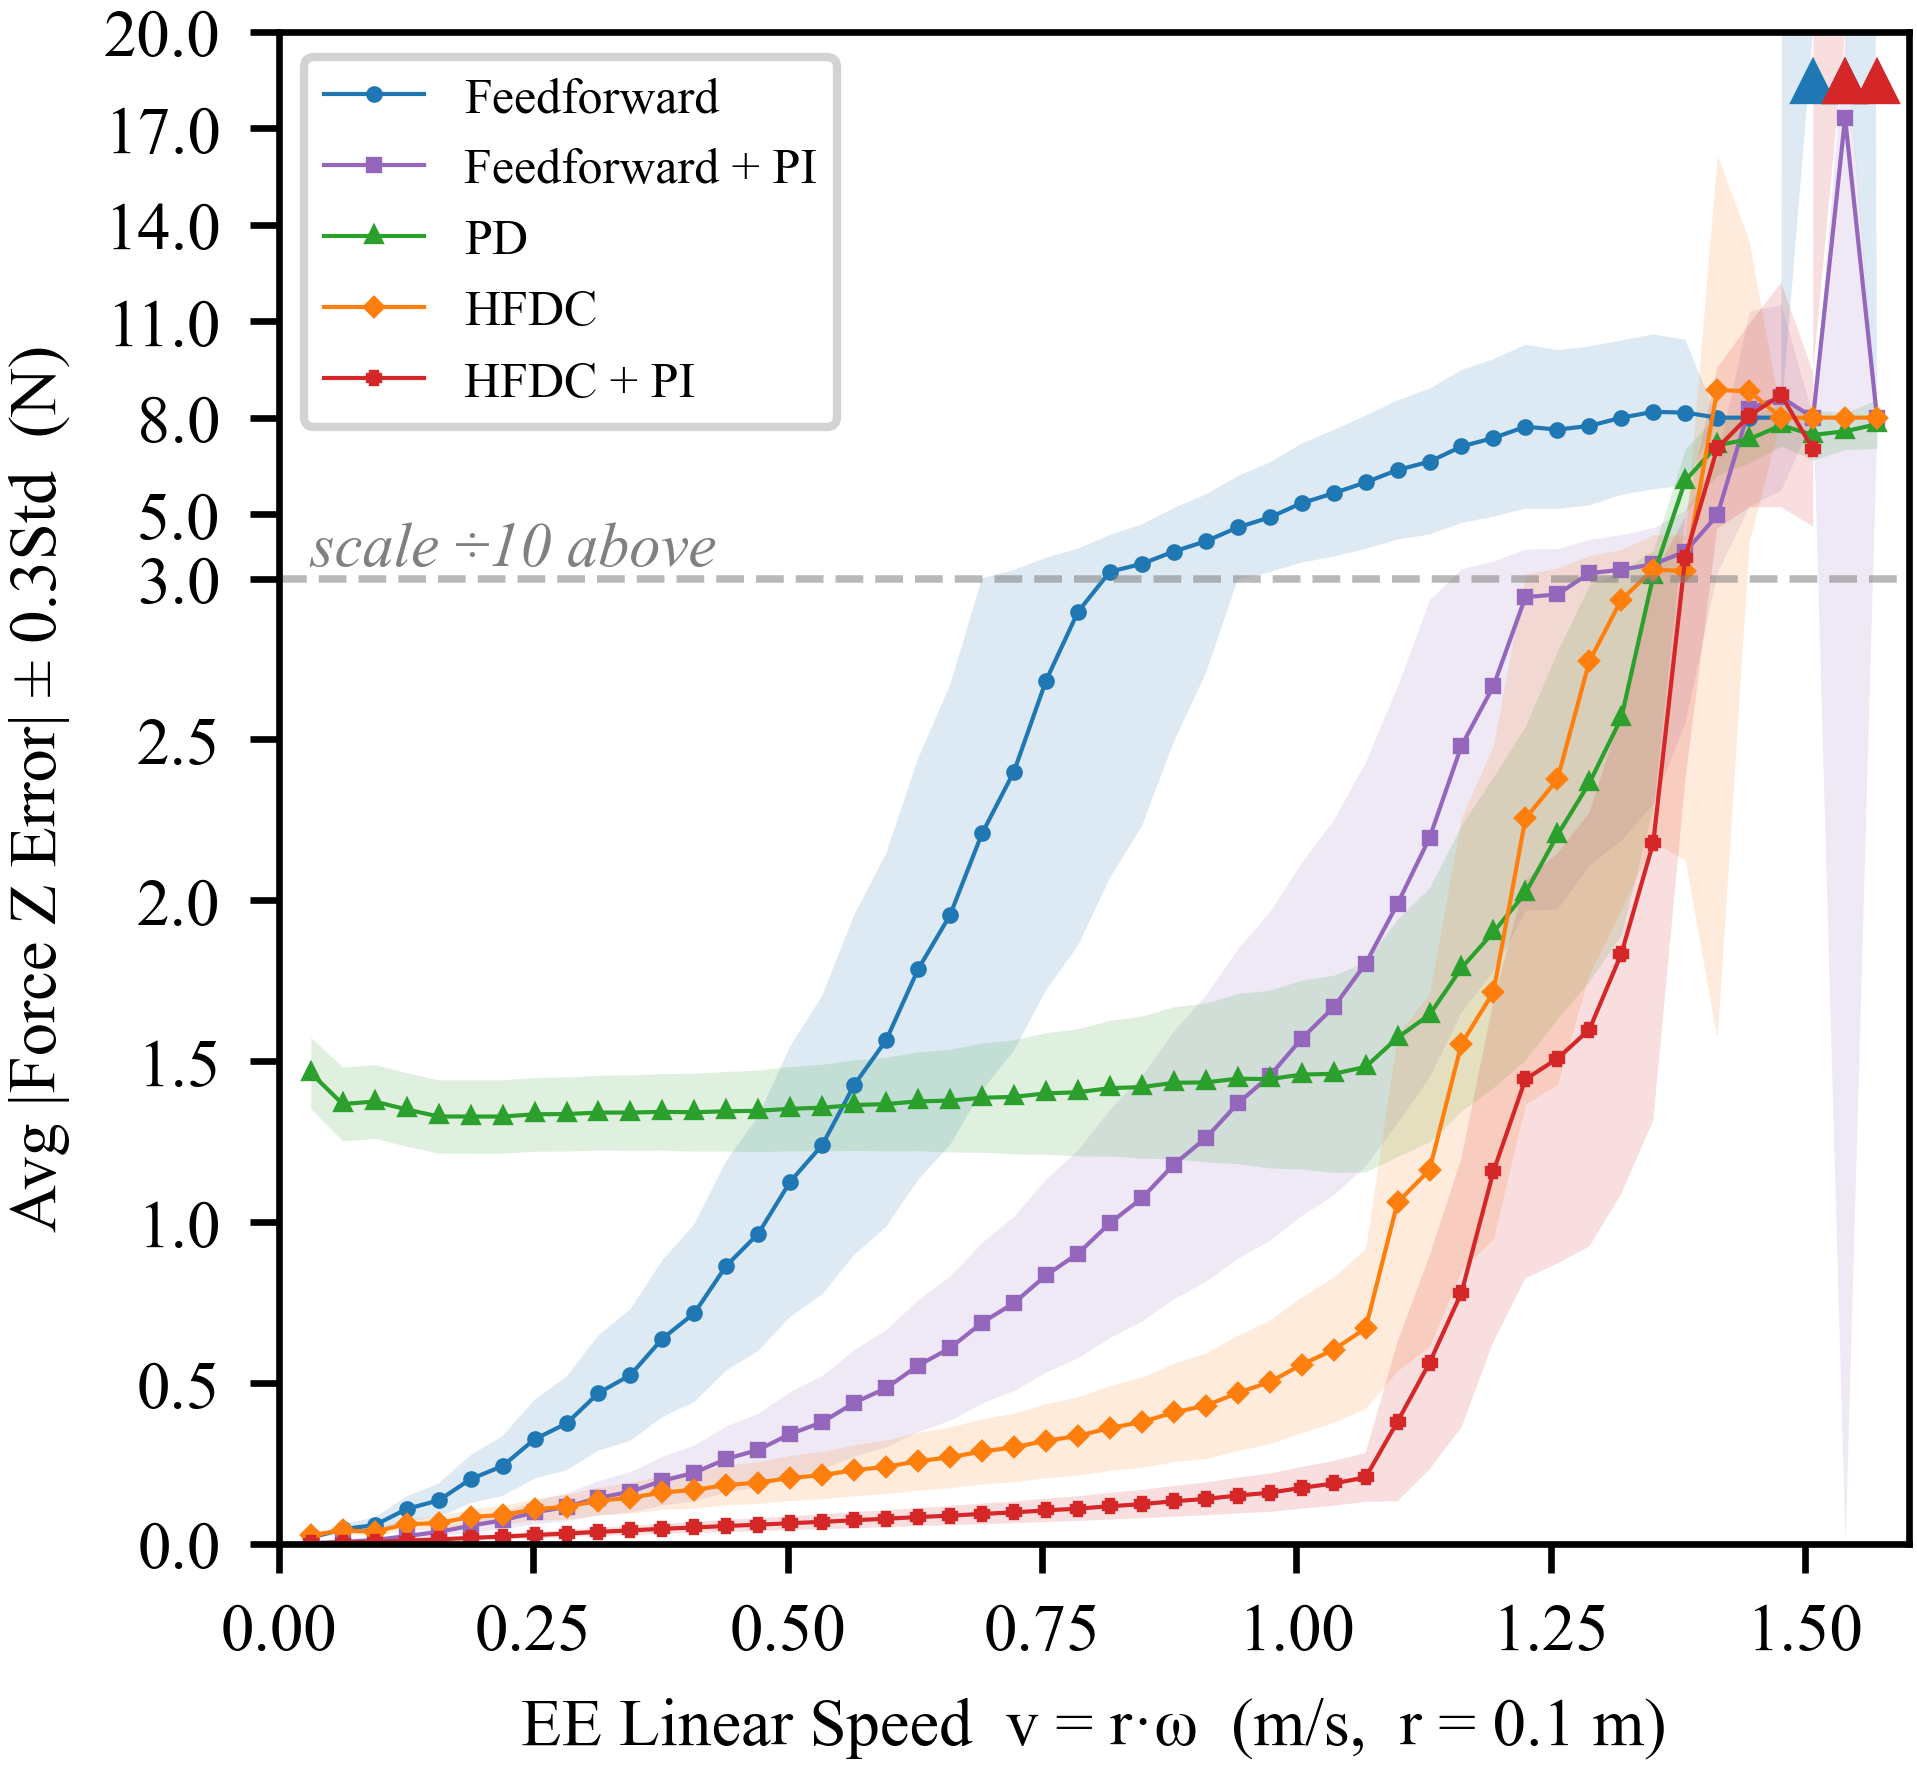
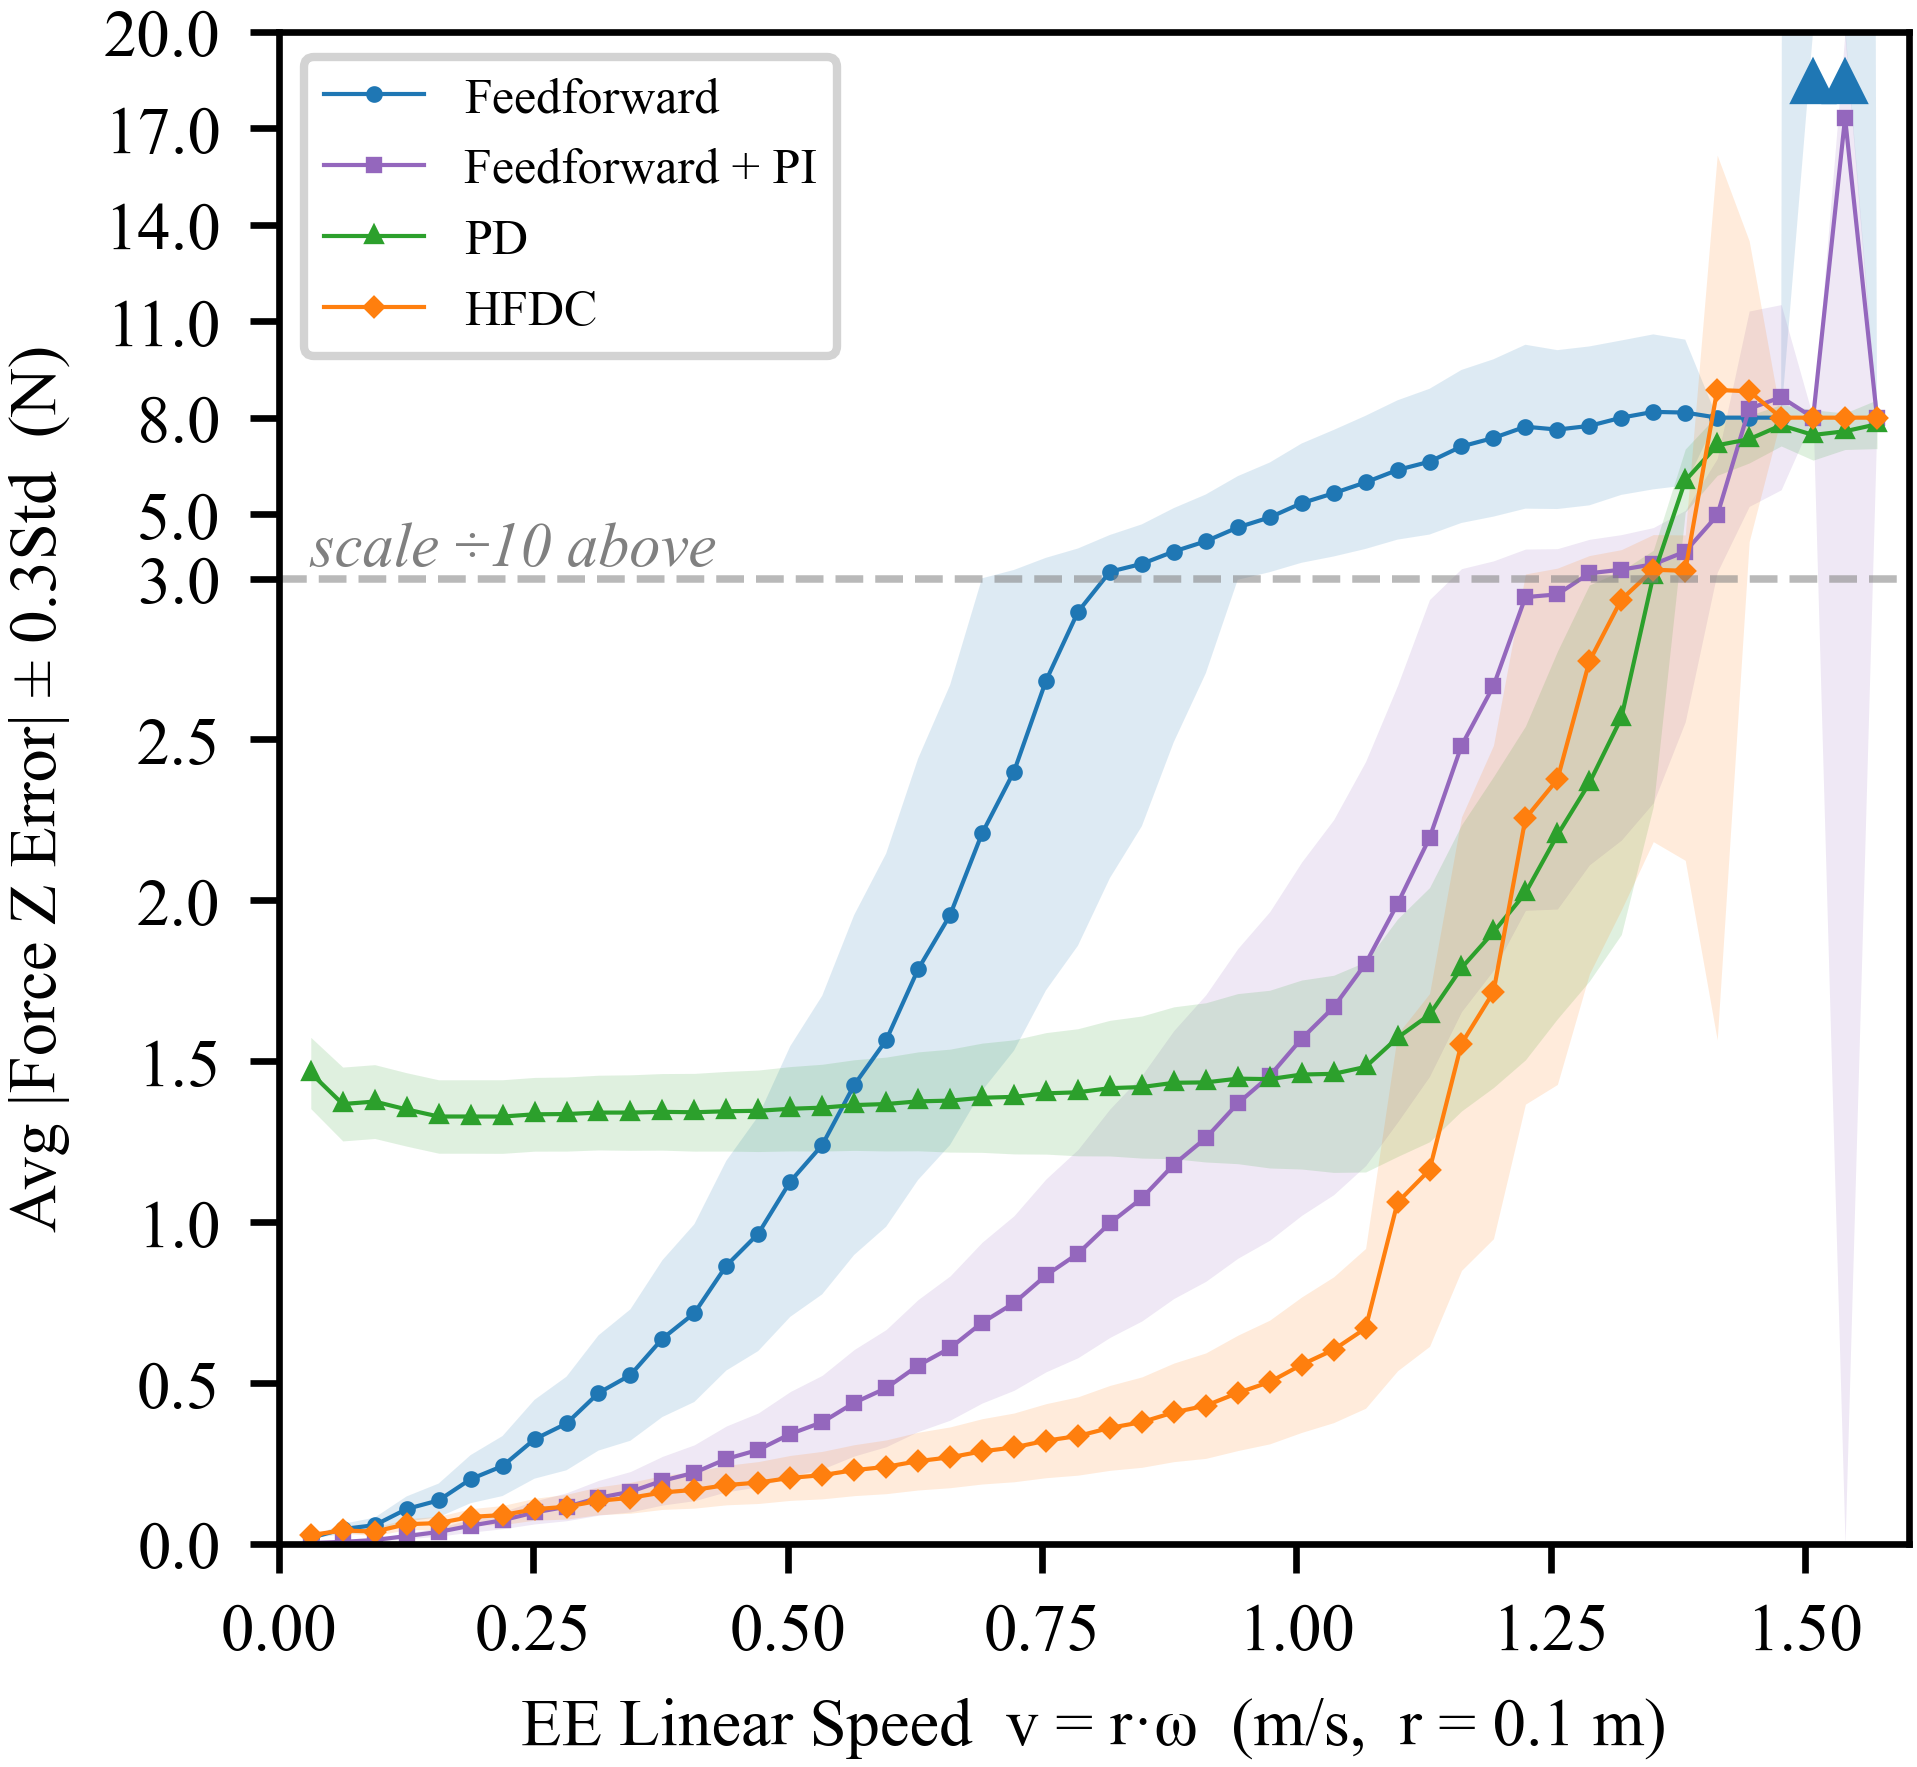
add changed angular_speed_sweep + baseline

Changed region(s): [[0.2154, 0.0311, 1.0, 0.8715], [0.1539, 0.1868, 0.4617, 0.249]]

diff --git a/angular_speed_sweep/plot_force_error_comparison.py b/angular_speed_sweep/plot_force_error_comparison.py
@@ -60,11 +60,12 @@ SCRIPT_DIR = os.path.dirname(os.path.abspath(__file__))
 PLOTS_DIR = os.path.join(SCRIPT_DIR, "plots")
 
 METHOD_KEYS = [
+    ("Baseline",         "baseline",       "tab:gray",   "x"),
     ("Feedforward",      "feedforward",    "tab:blue",   "o"),
     ("Feedforward + PI", "feedforward_pi", "tab:purple", "s"),
     ("PD",               "pd",             "tab:green",  "^"),
-    ("HFDC",             "paper",          "tab:orange",    "D"),
-    ("HFDC + PI",        "paper_pi",       "tab:red", "P"),
+    ("HFDC",             "paper",          "tab:orange", "D"),
+    # ("HFDC + PI",        "paper_pi",       "tab:red",    "P"),
 ]
 
 STD_RATIO = 0.3   # width of ±1 std band relative to mean (for combined plots)
@@ -188,7 +189,10 @@ def load_all(data_dir):
     )}
     for fpath in npz_files:
         d = np.load(fpath)
-        rows["ee_linear_speed_m_s"].append(float(d["ee_linear_speed_m_s"]))
+        rows["ee_linear_speed_m_s"].append(
+            float(d["ee_linear_speed_m_s"]) if "ee_linear_speed_m_s" in d
+            else float(d["angular_speed_rad_s"]) * 0.1  # r=0.1 m fallback
+        )
 
         # Force: skip first second
         fe = d["force_error"]
